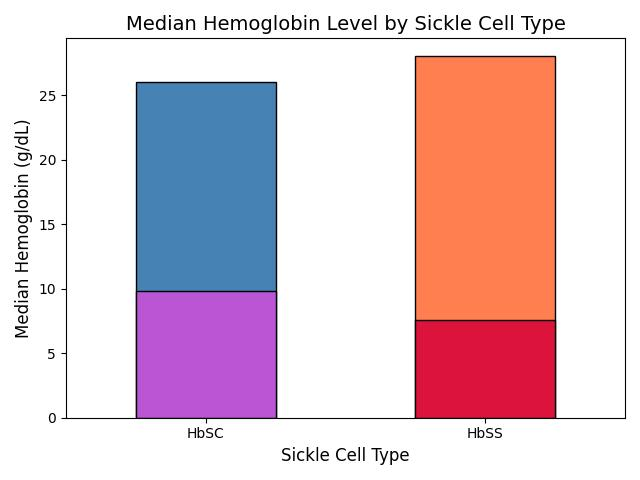
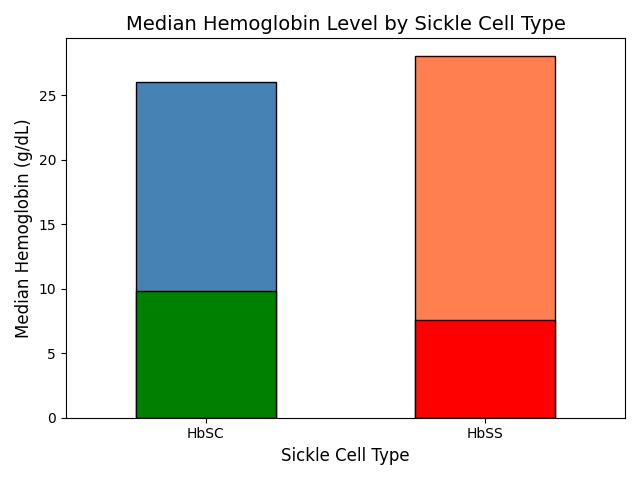
added line and scatter plot

Changed region(s): [[0.1875, 0.5938, 0.4375, 0.875], [0.625, 0.6562, 0.875, 0.875]]

diff --git a/town_average_sickdays.py b/town_average_sickdays.py
@@ -3,83 +3,36 @@
 
 import pandas as pd
 import matplotlib.pyplot as plt
-
-# Step 1: Load the data
 df = pd.read_excel('sickle_cell_dataset_100_rows.xlsx')
 
-# Step 2: Check the data loaded correctly
-print(df.head())
-
-avg_sick_days = df.groupby('Town')['Total Sick Days'].mean().round()
-print(avg_sick_days)
+# LINE GRAPH: Number of Diagnoses Per Year
+# Question: How has the number of diagnoses changed over the years?
+# Count diagnoses per year
 
 
-# Step 5: Plot the bar chart
-avg_sick_days.plot(kind='bar', color=['steelblue', 'coral', 'mediumseagreen'], edgecolor='black')
+diagnoses_per_year = df.groupby('Diagnosis_Year')['Child_ID'].count()
+print(diagnoses_per_year)
 
-# Step 6: Add labels and title
-plt.title('Average Total Sick Days Per Town', fontsize=14)
-plt.xlabel('Town', fontsize=12)
-plt.ylabel('Average Sick Days', fontsize=12)
-plt.xticks(rotation=90)
-plt.tight_layout()
-plt.savefig('average_sick_days_per_town.png')
+# Create the line graph
+plt.figure(figsize=(8, 5))
 
+# LINE GRAPH: The Shortcut Method
+# Step 1: Calculate the summary
+diagnoses_per_year = df.groupby('Diagnosis_Year')['Child_ID'].count()
 
-#I OMMITTED BAR CHART 2
-
-
-# BAR CHART 3: Median Hemoglobin Level by Sickle Cell Type
-# Question: Do children with HbSS have lower typical hemoglobin than HbSC?
-
-# Check the sickle cell types in our data
-print(df['Sickle_Cell_Type'].unique())
-print(df['Sickle_Cell_Type'].value_counts())
-
-# Group by Sickle_Cell_Type, calculate median hemoglobin
-median_hb = df.groupby('Sickle_Cell_Type')['Hemoglobin_Level_g_dL'].median()
-
-print(median_hb)
-
-# Plot
-median_hb.plot(kind='bar', color=['mediumorchid', 'crimson'], edgecolor='black')
-
-plt.title('Median Hemoglobin Level by Sickle Cell Type', fontsize=14)
-plt.xlabel('Sickle Cell Type', fontsize=12)
-plt.ylabel('Median Hemoglobin (g/dL)', fontsize=12)
-plt.xticks(rotation=0)
-plt.tight_layout()
-plt.savefig('median_hemoglobin_level_by_cell_type.jpg')
-
-
-
-
-
-#PIE CHARTS OF OUR THREE CHARTS
-
-
-
-
-
-
-
-# PIE CHART: Average Total Sick Days Per Town
-# Same question, different visualization: Which town had the highest average total sick days?
-
-# Step 3: Plot the pie chart
-plt.figure(figsize=(7, 7))
-
-avg_sick_days.plot(
-    kind='pie',
-    colors=['steelblue', 'coral', 'mediumseagreen'],
-    autopct='%1.1f%%',
-    startangle=90,
-    
+# Step 2: Create the line graph using the .plot shortcut
+# We just change kind='bar' to kind='line'
+diagnoses_per_year.plot(
+    kind='line', 
+    color='steelblue', 
+    marker='o', 
+    linewidth=2
 )
 
-# Step 4: Add title and clean up
-plt.title('Average Total Sick Days Per Town', fontsize=14)
-plt.ylabel('')
+# Step 3: Add labels and title (Same as before)
+plt.title('Number of Diagnoses Per Year', fontsize=14)
+plt.xlabel('Year', fontsize=12)
+plt.ylabel('Number of Children Diagnosed', fontsize=12)
+
 plt.tight_layout()
-plt.savefig('average_sick_days_pie_chart.png')
 plt.show()
